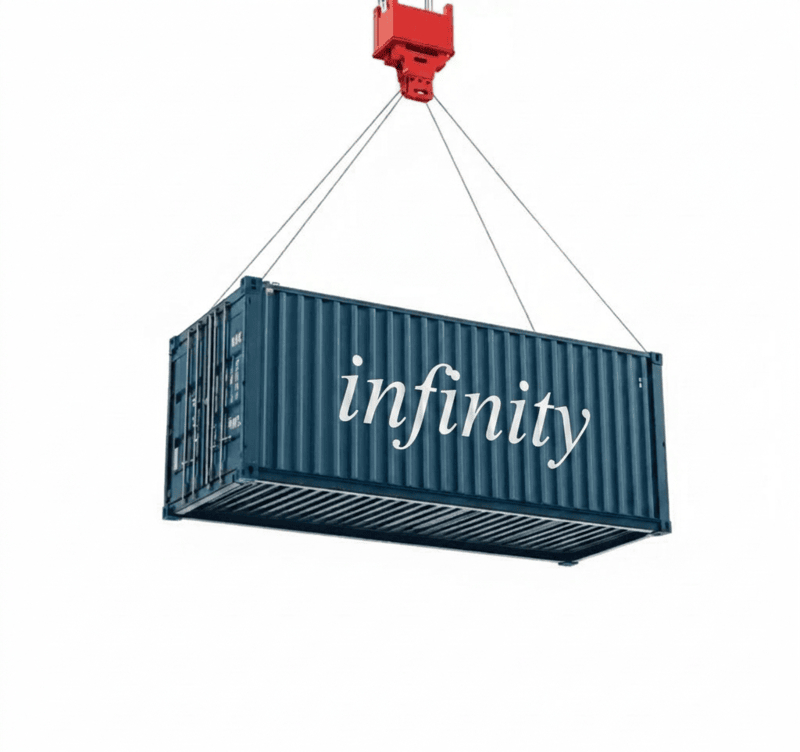
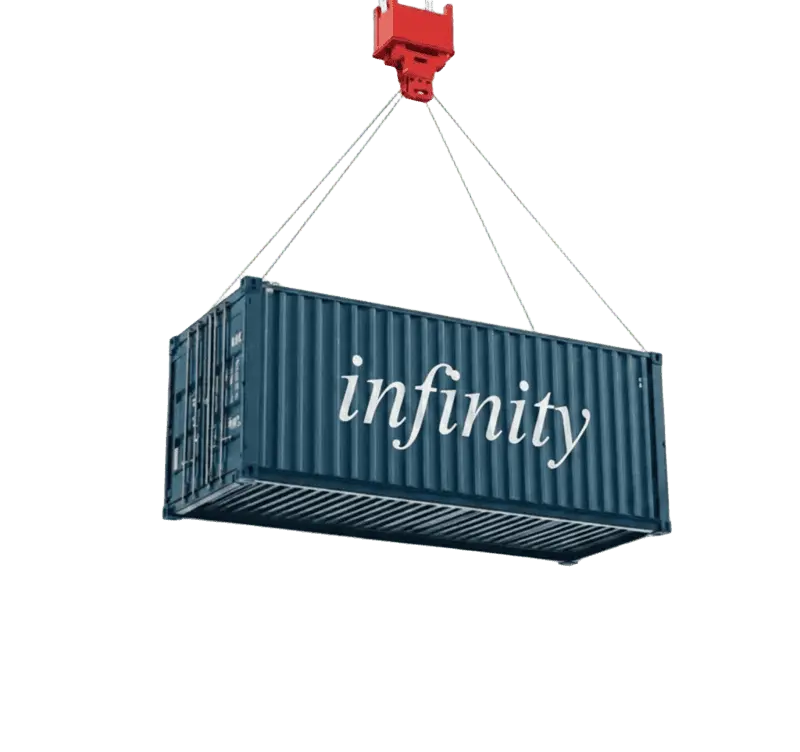
v5.9

diff --git a/routes/web.php b/routes/web.php
@@ -6,7 +6,7 @@ use App\Http\Controllers\ContactController;
 use App\Http\Controllers\LanguageController;
 use App\Http\Controllers\MaintenanceController;
 
-Route::view('/', 'sections.index')->name('home');
+Route::view('/', 'index')->name('home');
 
 Route::post('/send-email', [ContactController::class, 'send'])
     ->middleware(['throttle:1,3', ProtectAgainstSpam::class])
